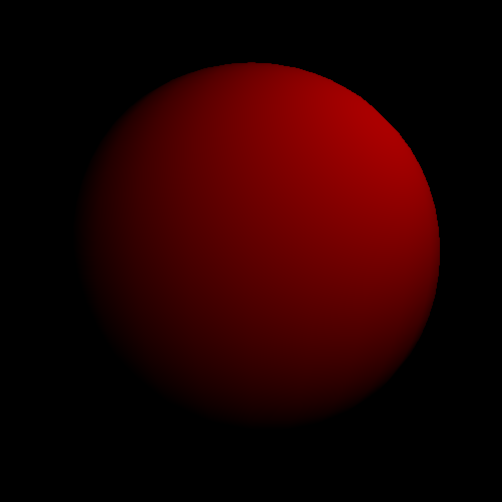
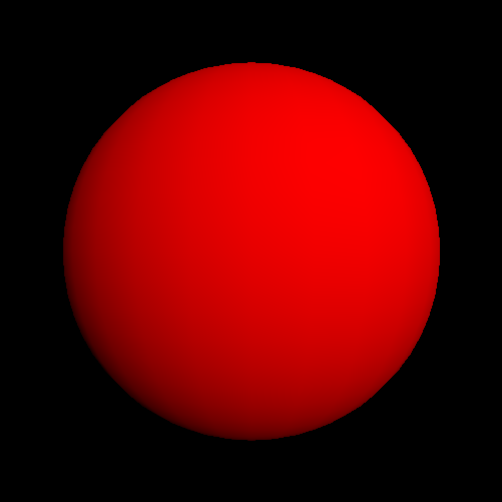
utiliser une lumière directionnelle plutôt

diff --git a/index.html b/index.html
@@ -19,7 +19,7 @@
                 <p>Normalement vous devriez avoir un carré noir ainsi qu'un éditeur de code à droite de l'écran. L'éditeur devrait contenir le morceau de code suivant:</p>
                 <pre><code>in vec3 vPosition;
 in vec3 vNormal;
-uniform vec3 uLightPos;
+uniform vec3 uLightDirection;
 uniform vec3 uLightColor;
 
 void main() {
@@ -27,11 +27,11 @@ void main() {
     gl_FragColor = vec4(finalColor, 1.);
 }</code></pre>
                 <p>Voilà notre shader qui affiche pour l'instant un écran noir. Il est écrit dans un langage qui s'appelle GLSL (pour <i>OpenGL Shading Language</i>) et qui ressemble à du C en termes de syntaxe.</p>
-                <p>Les 3 premières lignes commencent par les mots-clé <code>in</code> ou <code>uniform</code>: elle servent à déclarer que notre shader prend en paramètre trois variables <code>vPosition, vNormal, uLightPos</code> qui sont toutes de type <code>vec3</code> (un vecteur de dimension 3, c'est un type de base en GLSL)</p>
+                <p>Les 3 premières lignes commencent par les mots-clé <code>in</code> ou <code>uniform</code>: elle servent à déclarer que notre shader prend en paramètre quatre variables <code>vPosition, vNormal, uLightDirection, uLightColor</code> qui sont toutes de type <code>vec3</code> (un vecteur de dimension 3, c'est un type de base en GLSL)</p>
                 <ul>
                     <li><code>vPosition</code> contient la position du point de la sphère correspondant à notre pixel</li> // TODO: reformuler
                     <li><code>vNormal</code> contient le vecteur normal à la sphère au point correspondant à notre pixel</li>
-                    <li><code>uLightPos</code> contient la position de la lampe</li>
+                    <li><code>uLightDirection</code> contient la direction de la lumière</li>
                     <li><code>uLightColor</code> contient la couleur de la lumière</li>
                 </ul>
                 <p>Expliquer in vs uniform</p>
@@ -49,15 +49,16 @@ void main() {
 
                 <p>Sur ces schémas on voit que plus la normale est alignée avec la direction de la lumière, plus notre surface est éclairée. Or on a un outil bien pratique pour mesurer l'alignement de deux vecteurs: le produit scalaire. La quantité de lumière reçue est en fait proportionnelle au produit scalaire de la normale \(\mathbf{n}\) et de la direction inverse de la lumière \(\mathbf{L}\): </p>
                 <p><img src="res/schema.png" width=50%/></p>
-                <p>On sait aussi que plus la lumière est proche de la surface, plus celle-ci est éclairée. Plus exactement, la quantité de lumière reçue décroit comme le carré de la distance qui sépare notre point de la lumière, ce qui donne la formule finale suivante pour calculer la couleur d'un point de position: \(\mathbf{p}\), de normale \(\mathbf{n}\) et éclairé par une lumière de position \(\mathbf{l}\):
+                <p>Cela nous donne la formule suivante pour calculer la couleur d'un point de normale \(\mathbf{n}\) éclairé par une lumière de direction \(-\mathbf{L}\):
 
-                    \[ \frac{\text{couleur de l'objet} * \text{couleur de la lumière}}{\lVert l - p\rVert^2} \times \frac{n \cdot (l - p)}{\lVert l-p\rVert }\]
+                    \[ \max(0, n \cdot L) \times \text{couleur de l'objet} * \text{couleur de la lumiere}\]
                 </p>
                 en notant \(*\) la multiplication composante par composante.
                 <p>En GLSL beaucoup d'opération sur les vecteurs sont définies par défaut: l'addition et la multiplication par un scalaire bien sur mais aussi:</p>
                 <ul>
                     <li>Le produit scalaire avec <code>dot(a,b)</code></li>
                     <li>La longueur d'un vecteur avec <code>length(v)</code>, ou encore la distance entre deux points avec <code>distance(a, b)</code></li>
+                    <li>La normalisation avec <code>normalize(v)</code></li>
                     <li>La multiplication composante par composante avec <code>a * b</code> (qui n'a pas trop de sens pour des vecteurs ou des points, mais très utile pour manipuler des couleurs)</li>
                 </ul>
 
@@ -67,6 +68,8 @@ void main() {
                         <figcaption>Mon résultat avec la couleur <code>vec3(1., 0., 0.)</code></figcaption>
                     </figure>
                 </p>
+
+                <h3>Étape 3: Modèle de Phong</h3>
             </article>
             <div id='wrap'>
                 <div id='container'></div>
@@ -74,7 +77,7 @@ void main() {
                     <button id='run'>Run Shader</button>
                     <div id="editor">in vec3 vPosition;
 in vec3 vNormal;
-uniform vec3 uLightPos;
+uniform vec3 uLightDirection;
 uniform vec3 uLightColor;
             
 void main() {
@@ -108,5 +111,6 @@ void main() {
         <script src="js/script.js"></script>
         <script src="https://polyfill.io/v3/polyfill.min.js?features=es6"></script>
         <script id="MathJax-script" async src="https://cdn.jsdelivr.net/npm/mathjax@3/es5/tex-mml-chtml.js"></script>
+        <script>MathJax.chtml.scale = 0.8;</script>
     </body>
 </html>

diff --git a/js/script.js b/js/script.js
@@ -17,8 +17,8 @@ let material = new THREE.ShaderMaterial({
     fragmentShader: editor.getValue(),
 
     uniforms: {
-        uLightPos: {value: new THREE.Vector3(1., 1., 3.)},
-        uLightColor: {value: new THREE.Vector3(3., 3., 3.)}
+        uLightDirection: {value: new THREE.Vector3(-1., -1., -3.).normalize()},
+        uLightColor: {value: new THREE.Vector3(1., 1., 1.)}
     }
 });
 material.onBeforeCompile = function(shader) {
